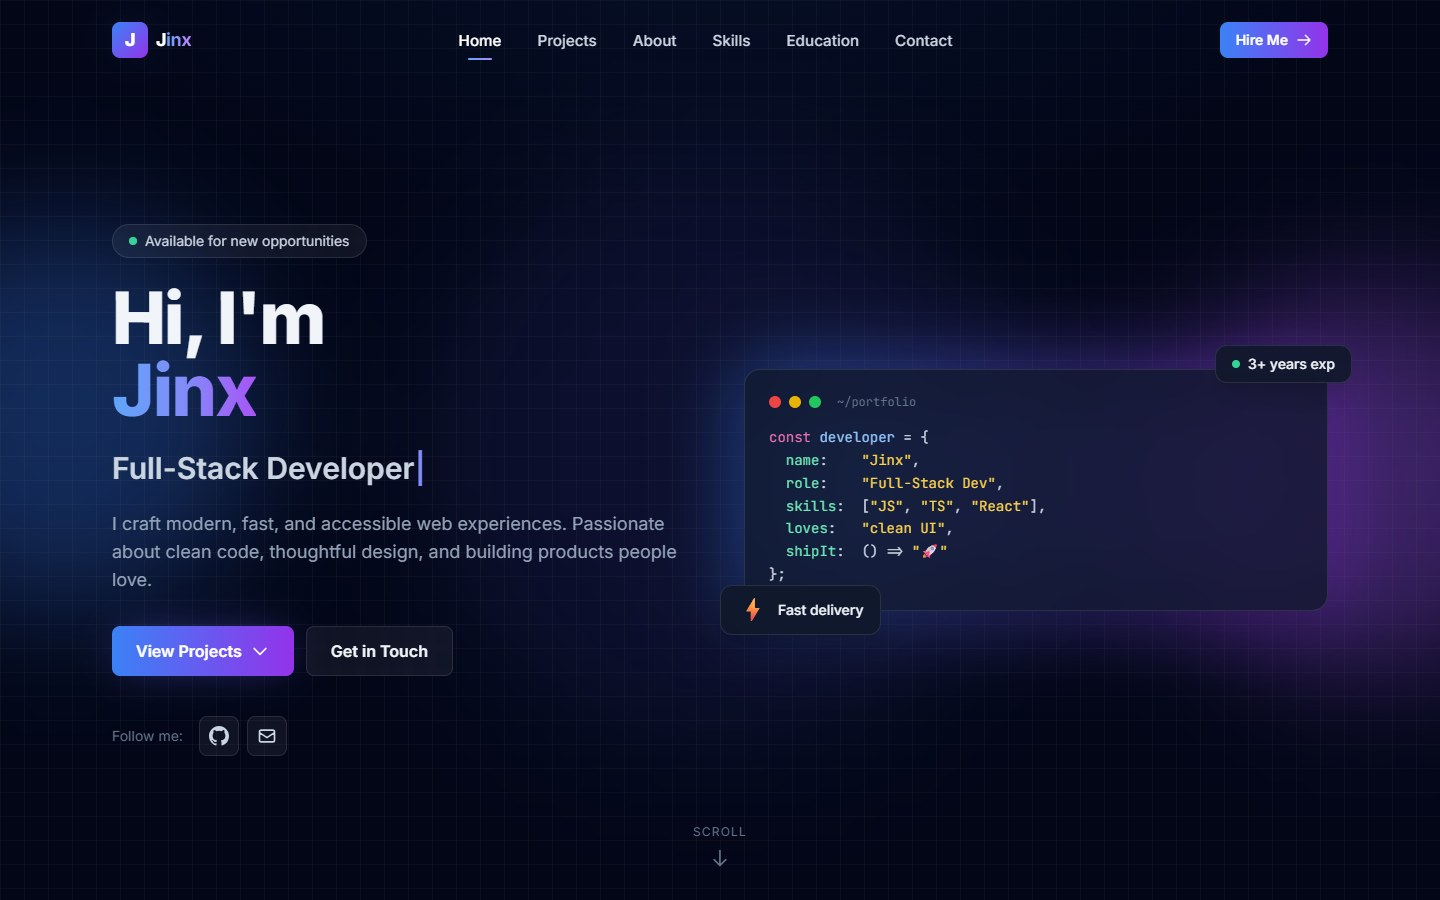
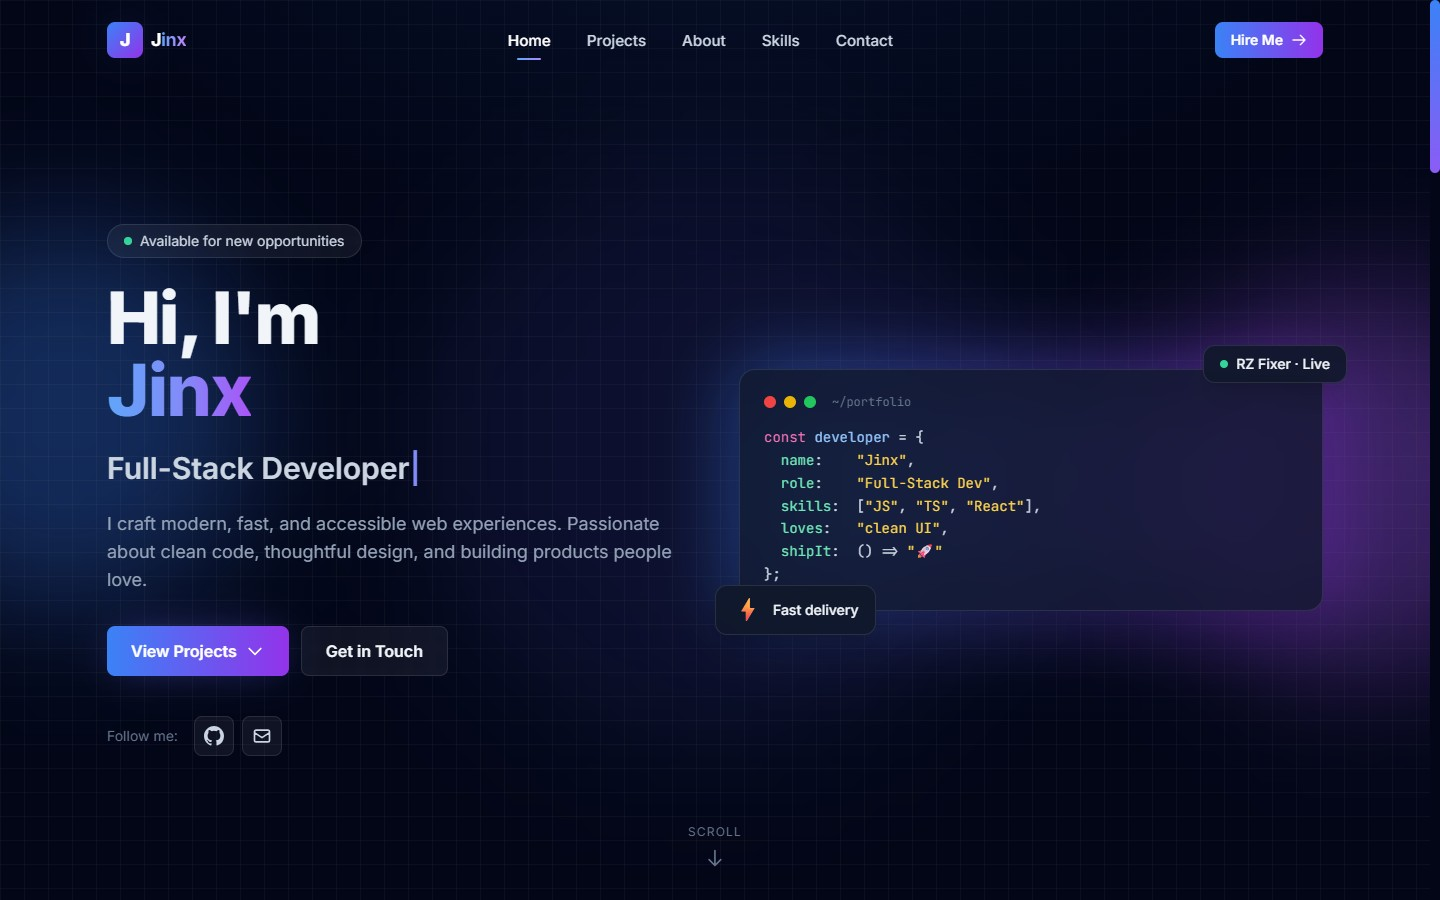
Remove portfolio education and experience sections

diff --git a/index.html b/index.html
@@ -163,7 +163,6 @@
                     <li><a href="#projects"    class="nav-link">Projects</a></li>
                     <li><a href="#about"       class="nav-link">About</a></li>
                     <li><a href="#skills"      class="nav-link">Skills</a></li>
-                    <li><a href="#education"   class="nav-link">Education</a></li>
                     <li><a href="#contact"     class="nav-link">Contact</a></li>
                 </ul>
 
@@ -188,7 +187,6 @@
                     <li><a href="#projects"    class="mobile-link">Projects</a></li>
                     <li><a href="#about"       class="mobile-link">About</a></li>
                     <li><a href="#skills"      class="mobile-link">Skills</a></li>
-                    <li><a href="#education"   class="mobile-link">Education</a></li>
                     <li><a href="#contact"     class="mobile-link">Contact</a></li>
                     <li class="pt-2 border-t border-white/10 mt-1">
                         <a href="#contact" class="flex items-center justify-center gap-2 w-full px-4 py-2.5 rounded-lg bg-gradient-to-r from-blue-500 to-purple-600 text-white text-sm font-semibold">
@@ -295,7 +293,7 @@
                         <div class="absolute -top-6 -right-6 px-4 py-2 rounded-xl bg-slate-900/90 backdrop-blur border border-white/10 shadow-xl animate-float-delay">
                             <div class="flex items-center gap-2">
                                 <div class="w-2 h-2 rounded-full bg-emerald-400"></div>
-                                <span class="text-sm font-medium">3+ years exp</span>
+                                <span class="text-sm font-medium">RZ Fixer · Live</span>
                             </div>
                         </div>
                         <div class="absolute -bottom-6 -left-6 px-4 py-2 rounded-xl bg-slate-900/90 backdrop-blur border border-white/10 shadow-xl animate-float">
@@ -619,44 +617,6 @@
         </section>
 
         <!-- ================================ -->
-        <!--            EDUCATION             -->
-        <!-- ================================ -->
-        <section id="education" class="py-20 md:py-28 relative bg-slate-900/30">
-            <div class="max-w-5xl mx-auto px-4 sm:px-6 lg:px-8">
-                <div class="text-center mb-16">
-                    <p data-animate class="text-sm uppercase tracking-[0.3em] text-indigo-400 font-semibold mb-3">My Journey</p>
-                    <h2 data-animate class="text-3xl sm:text-4xl md:text-5xl font-extrabold">
-                        <span class="bg-gradient-to-r from-blue-400 to-purple-500 bg-clip-text text-transparent">Education</span> & Experience
-                    </h2>
-                </div>
-
-                <div class="relative">
-                    <!-- Vertical line -->
-                    <div aria-hidden="true" class="timeline-track absolute left-4 sm:left-1/2 top-0 bottom-0 w-0.5 bg-gradient-to-b from-blue-500 via-purple-500 to-transparent -translate-x-1/2"></div>
-
-                    <!-- Education -->
-                    <div data-animate class="timeline-item">
-                        <div class="timeline-dot"></div>
-                        <div class="timeline-card">
-                            <span class="timeline-date">Completed</span>
-                            <h3 class="timeline-title">Diploma in Engineering</h3>
-                            <p class="timeline-org">GMIT Polytechnic</p>
-                        </div>
-                    </div>
-
-                    <!-- Experience -->
-                    <div data-animate class="timeline-item">
-                        <div class="timeline-dot"></div>
-                        <div class="timeline-card">
-                            <h3 class="timeline-title">AI-Assisted Development &amp; Personal Projects</h3>
-                            <p class="timeline-desc">Building real-world digital projects using AI-powered development tools and modern web technologies.</p>
-                        </div>
-                    </div>
-                </div>
-            </div>
-        </section>
-
-        <!-- ================================ -->
         <!--             CONTACT              -->
         <!-- ================================ -->
         <section id="contact" class="py-20 md:py-28 relative">
@@ -763,7 +723,6 @@
                     <li><a href="#projects"  class="hover:text-white transition">Projects</a></li>
                     <li><a href="#about"     class="hover:text-white transition">About</a></li>
                     <li><a href="#skills"    class="hover:text-white transition">Skills</a></li>
-                    <li><a href="#education" class="hover:text-white transition">Education</a></li>
                     <li><a href="#contact"   class="hover:text-white transition">Contact</a></li>
                 </ul>
 

diff --git a/css/styles.css b/css/styles.css
@@ -546,110 +546,6 @@ main, header, footer {
 }
 
 /* ==========================================================================
-   Education timeline
-   ========================================================================== */
-.timeline-item {
-    position: relative;
-    margin-bottom: 2.5rem;
-    padding-left: 3rem;
-}
-.timeline-track::after {
-    content: '';
-    position: absolute;
-    top: 1.5625rem; /* Centers on the first timeline dot before traveling. */
-    left: 50%;
-    width: 0.875rem;
-    height: 0.875rem;
-    border-radius: 9999px;
-    background: linear-gradient(135deg, #60a5fa, #a855f7);
-    box-shadow: 0 0 0 4px rgba(99, 102, 241, 0.2), 0 0 16px rgba(129, 140, 248, 0.85);
-    transform: translateX(-50%);
-    pointer-events: none;
-    z-index: 3;
-    animation: timeline-bubble-travel 6s linear infinite;
-}
-@keyframes timeline-bubble-travel {
-    0% { top: 1.5625rem; opacity: 0; }
-    8% { opacity: 1; }
-    92% { opacity: 1; }
-    100% { top: calc(100% - 0.875rem); opacity: 0; }
-}
-@media (min-width: 640px) {
-    .timeline-item {
-        width: 50%;
-        padding-left: 0;
-        padding-right: 2.5rem;
-    }
-    .timeline-item:nth-child(even) {
-        margin-left: auto;
-        padding-left: 2.5rem;
-        padding-right: 0;
-    }
-    .timeline-item:nth-child(even) .timeline-dot { left: -0.55rem; }
-}
-
-.timeline-dot {
-    position: absolute;
-    top: 1.5rem;
-    left: 0.85rem;
-    width: 1rem;
-    height: 1rem;
-    border-radius: 9999px;
-    background: linear-gradient(135deg, #3b82f6, #a855f7);
-    box-shadow: 0 0 0 4px rgba(99, 102, 241, 0.2);
-    z-index: 2;
-}
-@media (min-width: 640px) {
-    .timeline-dot { left: -0.7rem; }
-}
-@media (max-width: 639px) {
-    #education .timeline-dot { left: 0.5rem; }
-}
-
-.timeline-card {
-    padding: 1.25rem 1.5rem;
-    border-radius: 0.75rem;
-    background: linear-gradient(135deg, rgba(255,255,255,0.04), rgba(255,255,255,0.01));
-    border: 1px solid rgba(255, 255, 255, 0.08);
-    transition: all 0.3s ease;
-}
-.timeline-card:hover {
-    border-color: rgba(99, 102, 241, 0.4);
-    transform: translateY(-3px);
-    box-shadow: 0 10px 30px -10px rgba(99, 102, 241, 0.3);
-}
-
-.timeline-date {
-    display: inline-block;
-    padding: 0.2rem 0.6rem;
-    font-size: 0.7rem;
-    font-weight: 600;
-    color: rgb(165 180 252);
-    background-color: rgba(99, 102, 241, 0.1);
-    border: 1px solid rgba(99, 102, 241, 0.2);
-    border-radius: 9999px;
-    margin-bottom: 0.5rem;
-    letter-spacing: 0.05em;
-}
-.timeline-title {
-    font-size: 1.15rem;
-    font-weight: 700;
-    color: white;
-    margin-bottom: 0.25rem;
-}
-.timeline-org {
-    font-size: 0.85rem;
-    color: rgb(129 140 248); /* indigo-400 */
-    margin-bottom: 0.5rem;
-    font-weight: 500;
-}
-.timeline-desc {
-    font-size: 0.875rem;
-    color: rgb(148 163 184);
-    line-height: 1.5;
-}
-
-/* ==========================================================================
    Contact
    ========================================================================== */
 .contact-info-card {
@@ -716,7 +612,6 @@ main, header, footer {
         scroll-behavior: auto !important;
     }
     [data-animate] { opacity: 1; transform: none; }
-    .timeline-track::after { display: none; }
 }
 
 /* ==========================================================================

diff --git a/js/main.js b/js/main.js
@@ -50,7 +50,7 @@
        2) Navbar scroll behavior + active-link spy
        ---------------------------------------------------------------------- */
     const navbar = document.getElementById('navbar');
-    const sections = ['home', 'projects', 'about', 'skills', 'education', 'contact']
+    const sections = ['home', 'projects', 'about', 'skills', 'contact']
         .map((id) => document.getElementById(id))
         .filter(Boolean);
 

diff --git a/README.md b/README.md
@@ -4,7 +4,7 @@ Personal portfolio for Jinx, a web developer. Explore my projects, the work I co
 
 [Open the live portfolio](https://jinx-portfolio.pages.dev/)
 
-![Desktop homepage of the Jinx portfolio, with navigation and links to projects and contact information](assets/portfolio-home-preview.jpg)
+![Desktop portfolio homepage showing the RZ Fixer · Live badge and links to projects and contact information](assets/portfolio-home-preview.jpg)
 
 ## Featured projects
 
